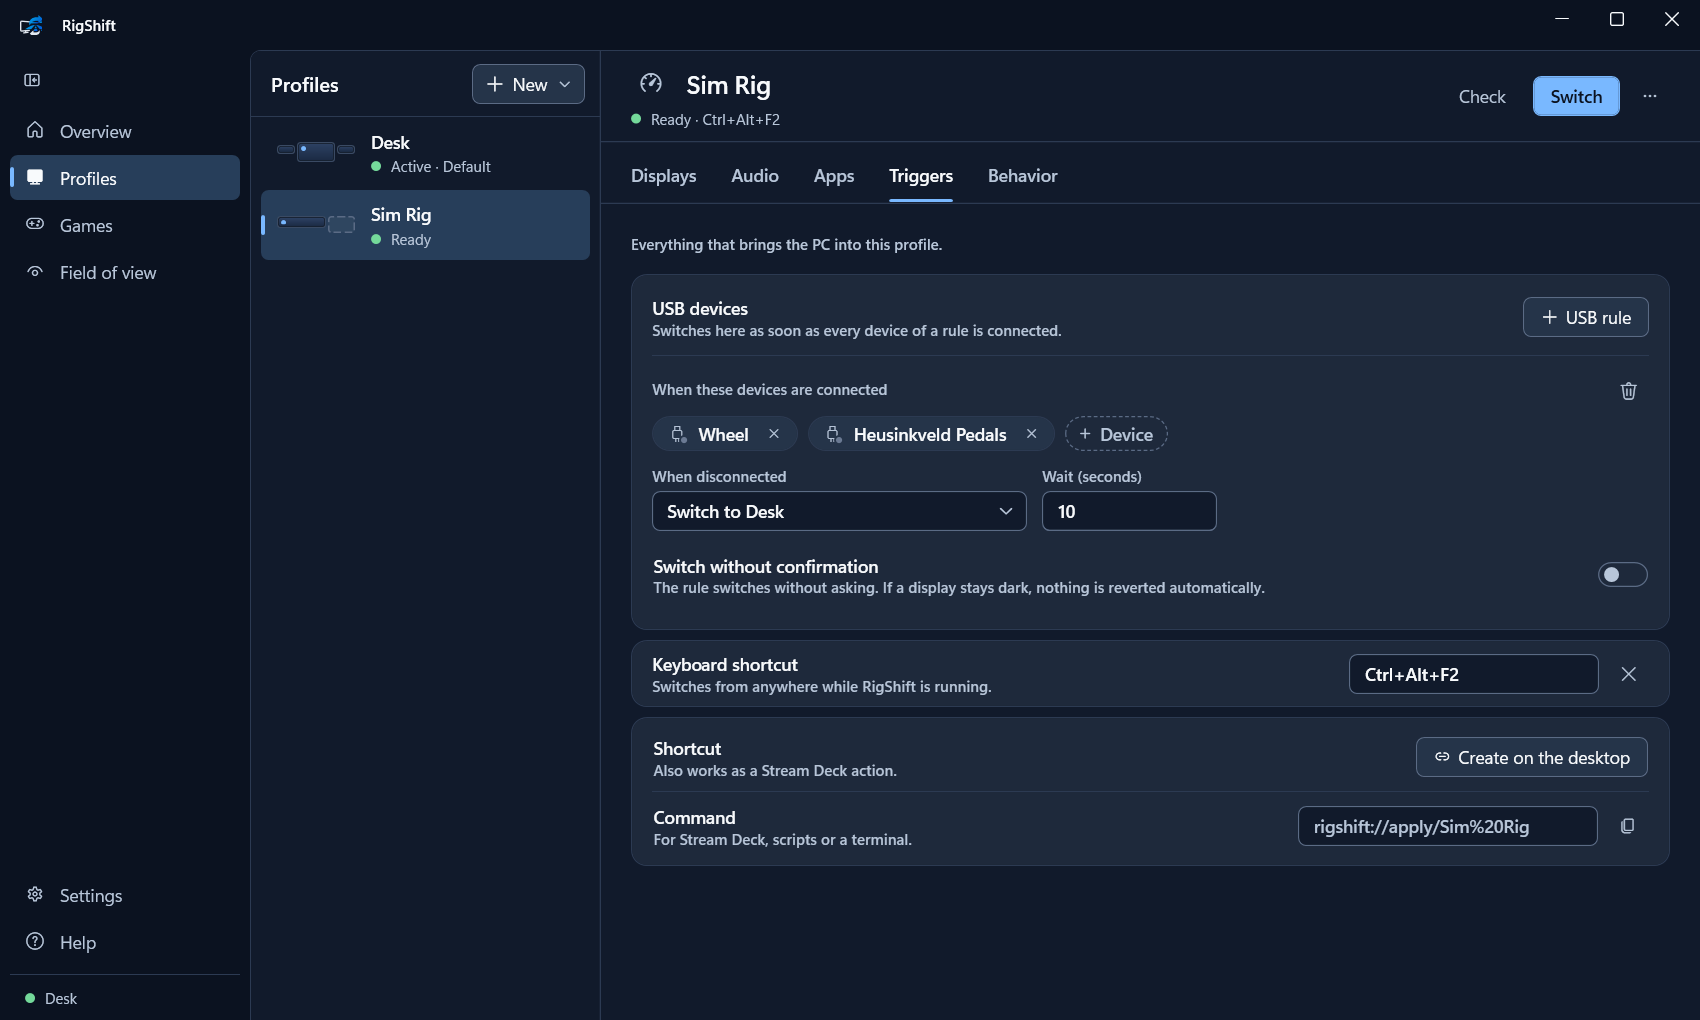
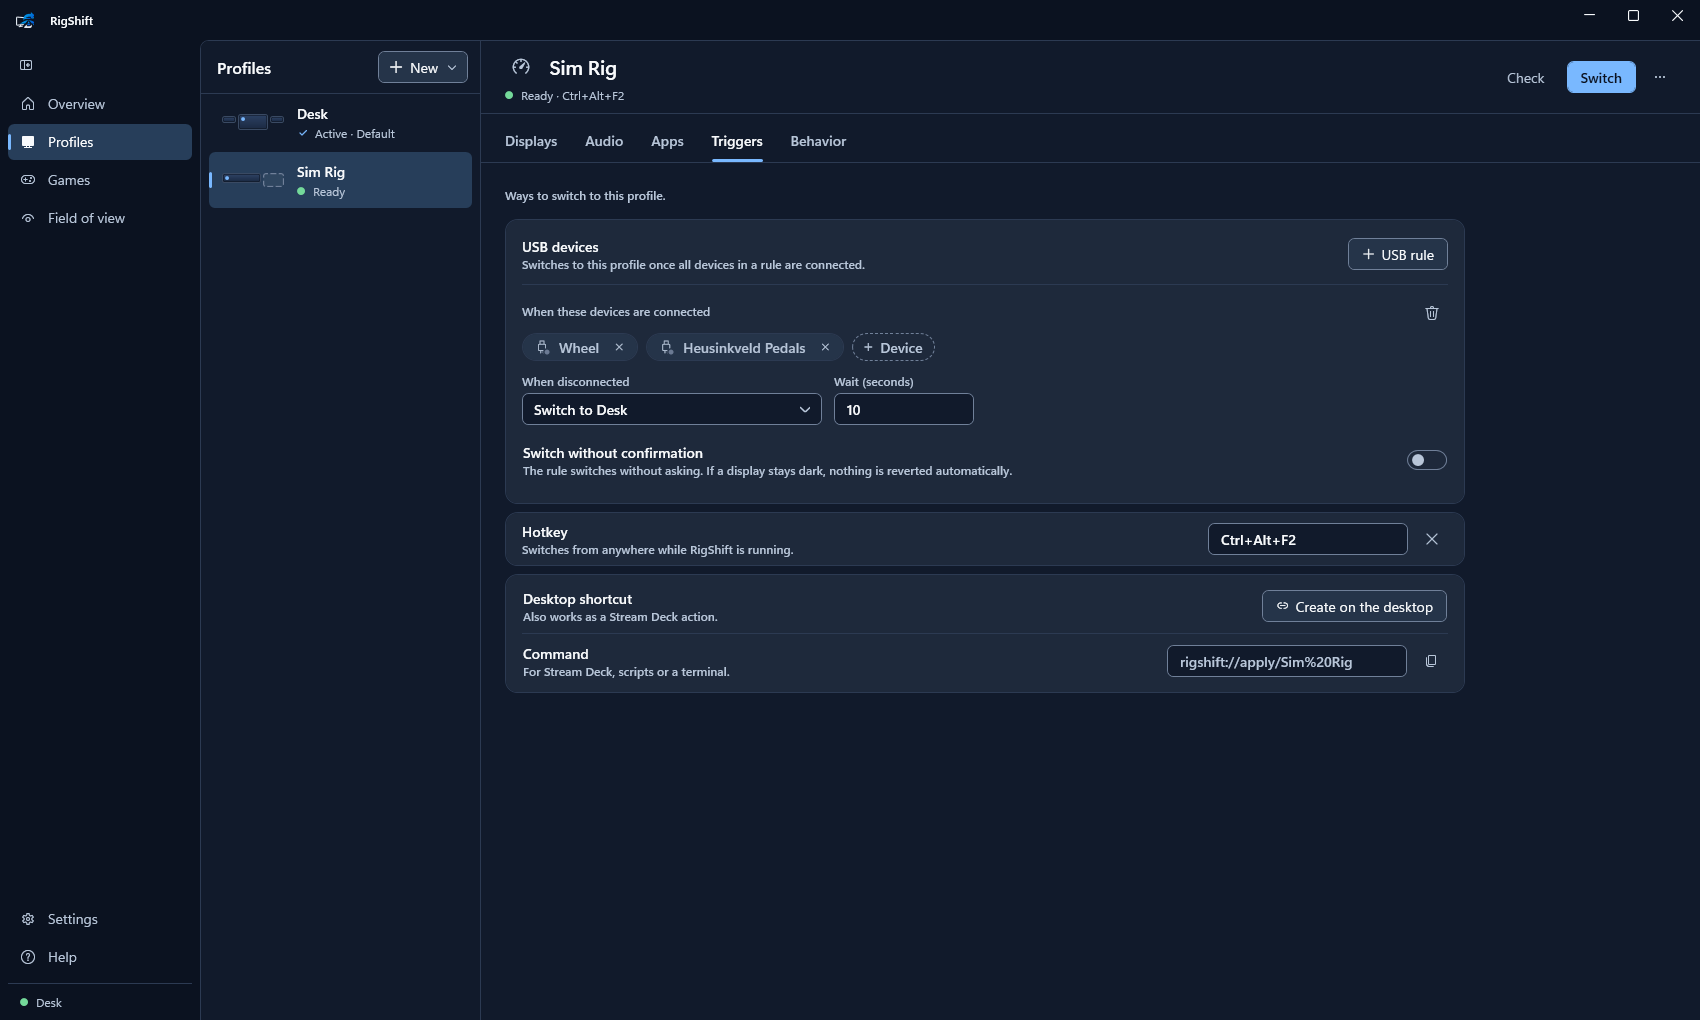
docs: rewrite the README for 4.0, refresh screenshots

diff --git a/README.md b/README.md
@@ -9,50 +9,48 @@
 [![Release](https://img.shields.io/github/v/release/ManuelStaggl/RigShift?label=release)](https://github.com/ManuelStaggl/RigShift/releases/latest)
 [![License: MIT](https://img.shields.io/badge/license-MIT-blue.svg)](LICENSE)
 
-RigShift switches a Windows PC between your desk and your sim rig: display layout, sound and apps in one step, by
-hotkey, from the tray, or automatically when the wheelbase turns on. Or it does the whole evening for you – one click
-starts the sim with the right screens, its tools and their windows, and puts everything back when you quit.
+RigShift switches one Windows PC between your desk and your sim rig: displays, audio and apps in one step.
+Turn the wheelbase on and the PC goes to rig mode, turn it off and your desk is back. If a switch leaves you
+without a picture, RigShift reverts it on its own.
 
-**[Download](https://github.com/ManuelStaggl/RigShift/releases/latest)** · Windows 10/11 · free, no admin rights ·
-[Changelog](CHANGELOG.md)
+**[Download for Windows 10/11](https://github.com/ManuelStaggl/RigShift/releases/latest/download/RigShift-win-Setup.exe)**
+· free and open source (MIT) · no account, no telemetry, no admin rights · [Is it safe?](#is-it-safe)
 
 <p align="center">
-  <img alt="RigShift with a Desk and a Sim Rig profile" src="docs/screenshots/profiles-dark.png" width="860">
+  <img alt="RigShift overview with a Desk and a Sim Rig profile" src="docs/screenshots/overview-dark.png" width="860">
 </p>
+
+## Already using DisplayMagician, DisplayFusion or a batch file?
+
+Keep it if it works for you. RigShift is for you if you want
+
+- the switch to happen when the wheelbase powers on, and back when it is off,
+- a layout that reverts by itself when a screen stays black,
+- audio and microphone, SimHub and Crew Chief, and your desktop icons in the same profile – and with a game entry,
+  the tools' window positions too.
+
+DisplayMagician is the better pick for AMD Eyefinity and many game launchers, DisplayFusion for full window
+management. [Detailed comparison](docs/compare.md) · [FAQ](docs/faq.md)
 
 ## Features
 
-- **Profiles.** Each profile stores which monitors are on, their layout, main display, resolution, refresh rate and
-  HDR, plus playback and microphone device with volume.
-- **Triggers.** Every profile carries its own way in: a hotkey, a desktop shortcut, and a USB rule that switches to the
-  rig when your wheelbase connects and back when it is gone, after a delay you choose.
-- **Games.** A game entry brackets a whole session: switch to its profile, start SimHub and Crew Chief, put their
-  windows back where they belong, launch the sim from Steam or Epic, and clean up when it ends. Start it from the tray,
-  a hotkey or its own desktop shortcut – or let RigShift notice when you start the game from Steam yourself.
-  **Find installed games** picks your sims off the list of what Steam and Epic have on this PC, on any drive, with no
-  sign-in and nothing to type.
-- **Apps.** Start SimHub, Crew Chief or anything else with a profile and close what you do not need. The next one can
-  wait until the previous one shows its window, instead of a guessed delay.
-- **Desktop icons.** Windows keeps one icon layout for all arrangements and reshuffles it whenever your screens change.
-  A profile can carry its own, and puts it back after the switch.
-- **One atomic switch.** Windows gets the whole layout at once, so the switch either works or nothing changes. No
-  picture afterwards? It reverts on its own; Enter or any wheel, button box or controller button keeps it. A screen
-  that stays dark anyway: **Ctrl+Alt+Shift+D** turns every display on.
-- **Made for real hardware.** Wakes sleeping monitors, waits for one that is off, tolerates optional screens such as a
-  spacedesk tablet, and moves windows off screens that are now dark.
-- **Field of view.** Your monitors report their size, so the page only asks for the curve, how far away you sit and
-  how the rig stands. Eighteen sims get the number they really want – degrees, a multiplier, a slider or radians –
-  with the triple-screen fields each one asks for, and a top view that follows every change.
-- **Control it your way.** Tray, hotkeys, Stream Deck, `rigshift://` links, command line. Backup and restore as a ZIP.
+- **Profiles** – which monitors are on, layout, main display, resolution, refresh rate, HDR, NVIDIA Surround, audio and volume.
+- **Triggers** – wheelbase on/off, hotkey, desktop shortcut, Stream Deck, `rigshift://` link, command line.
+- **Games** – one click: switch, start SimHub and Crew Chief, place their windows, launch the sim from Steam or Epic, clean up after.
+- **Safety net** – the whole layout is applied in one step; no picture means it reverts after a countdown, even after a crash.
+- **Real hardware** – wakes sleeping monitors, waits for a slow G9, skips optional screens like a spacedesk tablet.
+- **Desktop icons** – each profile keeps its own icon layout and puts it back after the switch.
+- **Field of view** – the right FOV value for 18 sims, from your monitor's real size.
+- **Backup** – profiles, games and settings as one ZIP. English and German.
 
 | | |
 |---|---|
+| <img alt="Displays of a profile" src="docs/screenshots/profiles-dark.png" width="400"> | <img alt="Triggers of a profile" src="docs/screenshots/triggers-dark.png" width="400"> |
+| **Profiles** – displays, audio, apps and behavior per profile. | **Triggers** – to the rig when wheelbase and pedals are on, back when they are off. |
 | <img alt="Games page" src="docs/screenshots/games-dark.png" width="400"> | <img alt="The tools of a game session" src="docs/screenshots/game-editor-dark.png" width="400"> |
-| **Games** – one click for the sim, its profile, its tools and the way back. | **Five steps** – launcher, profile, tools with their order, window positions and what happens when you quit. |
-| <img alt="Triggers of a profile" src="docs/screenshots/triggers-dark.png" width="400"> | <img alt="Settings page" src="docs/screenshots/settings-dark.png" width="400"> |
-| **Triggers** – to the rig when wheelbase and pedals are on, back when they are off. | **Settings** – default profile, countdown, language, updates, and a name for every device. |
+| **Games** – one click for the sim, its profile, its tools and the way back. | **Tools** – start order, waiting for the wheelbase, before or after the game. |
 | <img alt="Tray popup" src="docs/screenshots/tray-popup-dark.png" width="400"> | <img alt="Confirmation dialog" src="docs/screenshots/confirmation-dark.png" width="400"> |
-| **Tray** – switch or start a sim from the notification area. | **Safety net** – keep the new layout or it reverts after a countdown. |
+| **Tray** – switch or start a sim from the notification area. | **Safety net** – keep the new layout with any wheel button, or it reverts. |
 
 <p align="center">
   <img alt="Field of view page for a triple screen rig" src="docs/screenshots/fov-dark.png" width="820"><br>
@@ -61,18 +59,54 @@ starts the sim with the right screens, its tools and their windows, and puts eve
 
 ## Getting started
 
-1. Download `RigShift-win-Setup.exe` from the [latest release](https://github.com/ManuelStaggl/RigShift/releases/latest)
-   and run it (a portable ZIP is attached too). RigShift installs per user and starts in the tray.
+1. [Download the setup](https://github.com/ManuelStaggl/RigShift/releases/latest/download/RigShift-win-Setup.exe) and
+   run it. RigShift installs for your Windows user and starts in the tray. A portable ZIP is in the
+   [release](https://github.com/ManuelStaggl/RigShift/releases/latest) too.
 2. The setup assistant saves your desk, then your rig after you rearrange the displays, and can add a wheelbase rule.
 3. Later, arrange displays in the Windows settings and pick **New → From the current layout**, or edit any profile.
 
-RigShift is not code-signed, so SmartScreen may warn on first start: **More info → Run anyway**. Updates install on
-the next start (Settings). Data lives in `%AppData%\RigShift`.
+Updates install on the next start (Settings). Data lives in `%AppData%\RigShift`.
+
+## Tested on
+
+| Setup | Result |
+|---|---|
+| Windows 11 · RTX 4080 SUPER · desk: XG32UCWG + 2× CM27X3 · rig: Odyssey G9 (G93SC) + spacedesk display | my own PC, daily use since September 2026 |
+| Windows 10 code base (Server 2022, build 20348) | every change in CI: tests and a live read of the display configuration |
+| NVIDIA Surround on/off | not tested on a Surround rig yet – reports welcome |
+| AMD / Intel graphics | not tested yet – [report your setup](https://github.com/ManuelStaggl/RigShift/issues/new?template=hardware_report.yml) |
+
+Every hardware report ends up in this table.
+
+## Is it safe?
+
+RigShift is a free hobby project and not code-signed, so Windows shows **"Windows protected your PC"** the first
+time. Click **More info → Run anyway**.
+
+You don't have to take my word for it:
+
+- **Source:** everything is in this repository, MIT licensed. No telemetry, see [privacy](PRIVACY.md).
+- **VirusTotal:** each release links its scan.
+- **Built from this source:** every release carries a GitHub build attestation –
+  `gh attestation verify RigShift-win-Setup.exe -R ManuelStaggl/RigShift`
+- **Checksums and SBOM:** `SHA256SUMS` and a CycloneDX SBOM in every release.
+
+**Smart App Control** (Windows 11) blocks unsigned apps without a "run anyway" option; RigShift can't run while it is
+on. Why 80 MB? RigShift brings its own .NET runtime, so there is nothing to install first. Updates after that are
+usually a few MB. More in the [FAQ](docs/faq.md) and [SECURITY.md](SECURITY.md).
+
+## How RigShift is built
+
+I write RigShift with Claude Code (Anthropic) as a pair programmer, and I use it on my own rig every day. What keeps it
+honest is not the tool but the checks: 1,200+ automated tests, analyzers with warnings as errors and CodeQL run on
+every change; each release is installed over the previous version, started and checked in CI before it is published,
+and carries checksums, an SBOM and a build attestation. Hardware I don't own is listed as untested above, not
+claimed.
 
 ## Stream Deck and button boxes
 
-- **Hotkey action:** give the profile or the game a keyboard shortcut under **Triggers**. **Settings → Previous
-  profile** gives you one key for both directions.
+- **Hotkey action:** give the profile or the game a keyboard shortcut under **Triggers**. **Settings → Switch back**
+  gives you one key for both directions.
 - **Website action:** `rigshift://apply/Rig`, `rigshift://toggle` or `rigshift://play/iRacing`. Links always ask for
   confirmation.
 - **Open action:** **Triggers → Create on the desktop**, or **⋯ → Create shortcut** on a profile or a game. A game's
@@ -97,14 +131,10 @@ Exit codes: 0 applied, 1 failed, 2 blocked (required display missing), 3 not con
 not found, 5 invalid arguments. RigShift.exe is a GUI program; use `start /wait` (cmd) or `Start-Process -Wait -NoNewWindow`
 (PowerShell) to see its output.
 
-## Requirements
-
-Windows 10 (2004+) or Windows 11, x64. Any graphics card; tested on NVIDIA, reports from AMD and Intel users are
-welcome.
-
 ## Help
 
-- A monitor counts as missing while it sleeps: [Monitors in standby](docs/monitor-standby.md).
+- Questions and "does it work with my setup?": [Discussions](https://github.com/ManuelStaggl/RigShift/discussions).
+- A monitor counts as missing while it sleeps: [monitors in standby](docs/monitor-standby.md).
 - Wheelbase or pedals drop off USB: [USB power saving](docs/usb-power-saving.md).
 - Something else: **Help → Save support package** and attach the ZIP to the [issue](https://github.com/ManuelStaggl/RigShift/issues/new?template=bug_report.yml) that opens.
 
@@ -127,4 +157,4 @@ and the [display topology rules](docs/display-topology.md).
 [MIT](LICENSE) © 2026 Manuel Staggl. The RigShift logo and icons are not covered by the MIT license, see
 [brand assets](docs/brand/README.md). Bundled components: [third-party notices](THIRD-PARTY-NOTICES.md).
 
-No telemetry – see [privacy](PRIVACY.md). Silent install, uninstall and offline use: [deployment](docs/deployment.md).
+Silent install, uninstall and offline use: [deployment](docs/deployment.md).
